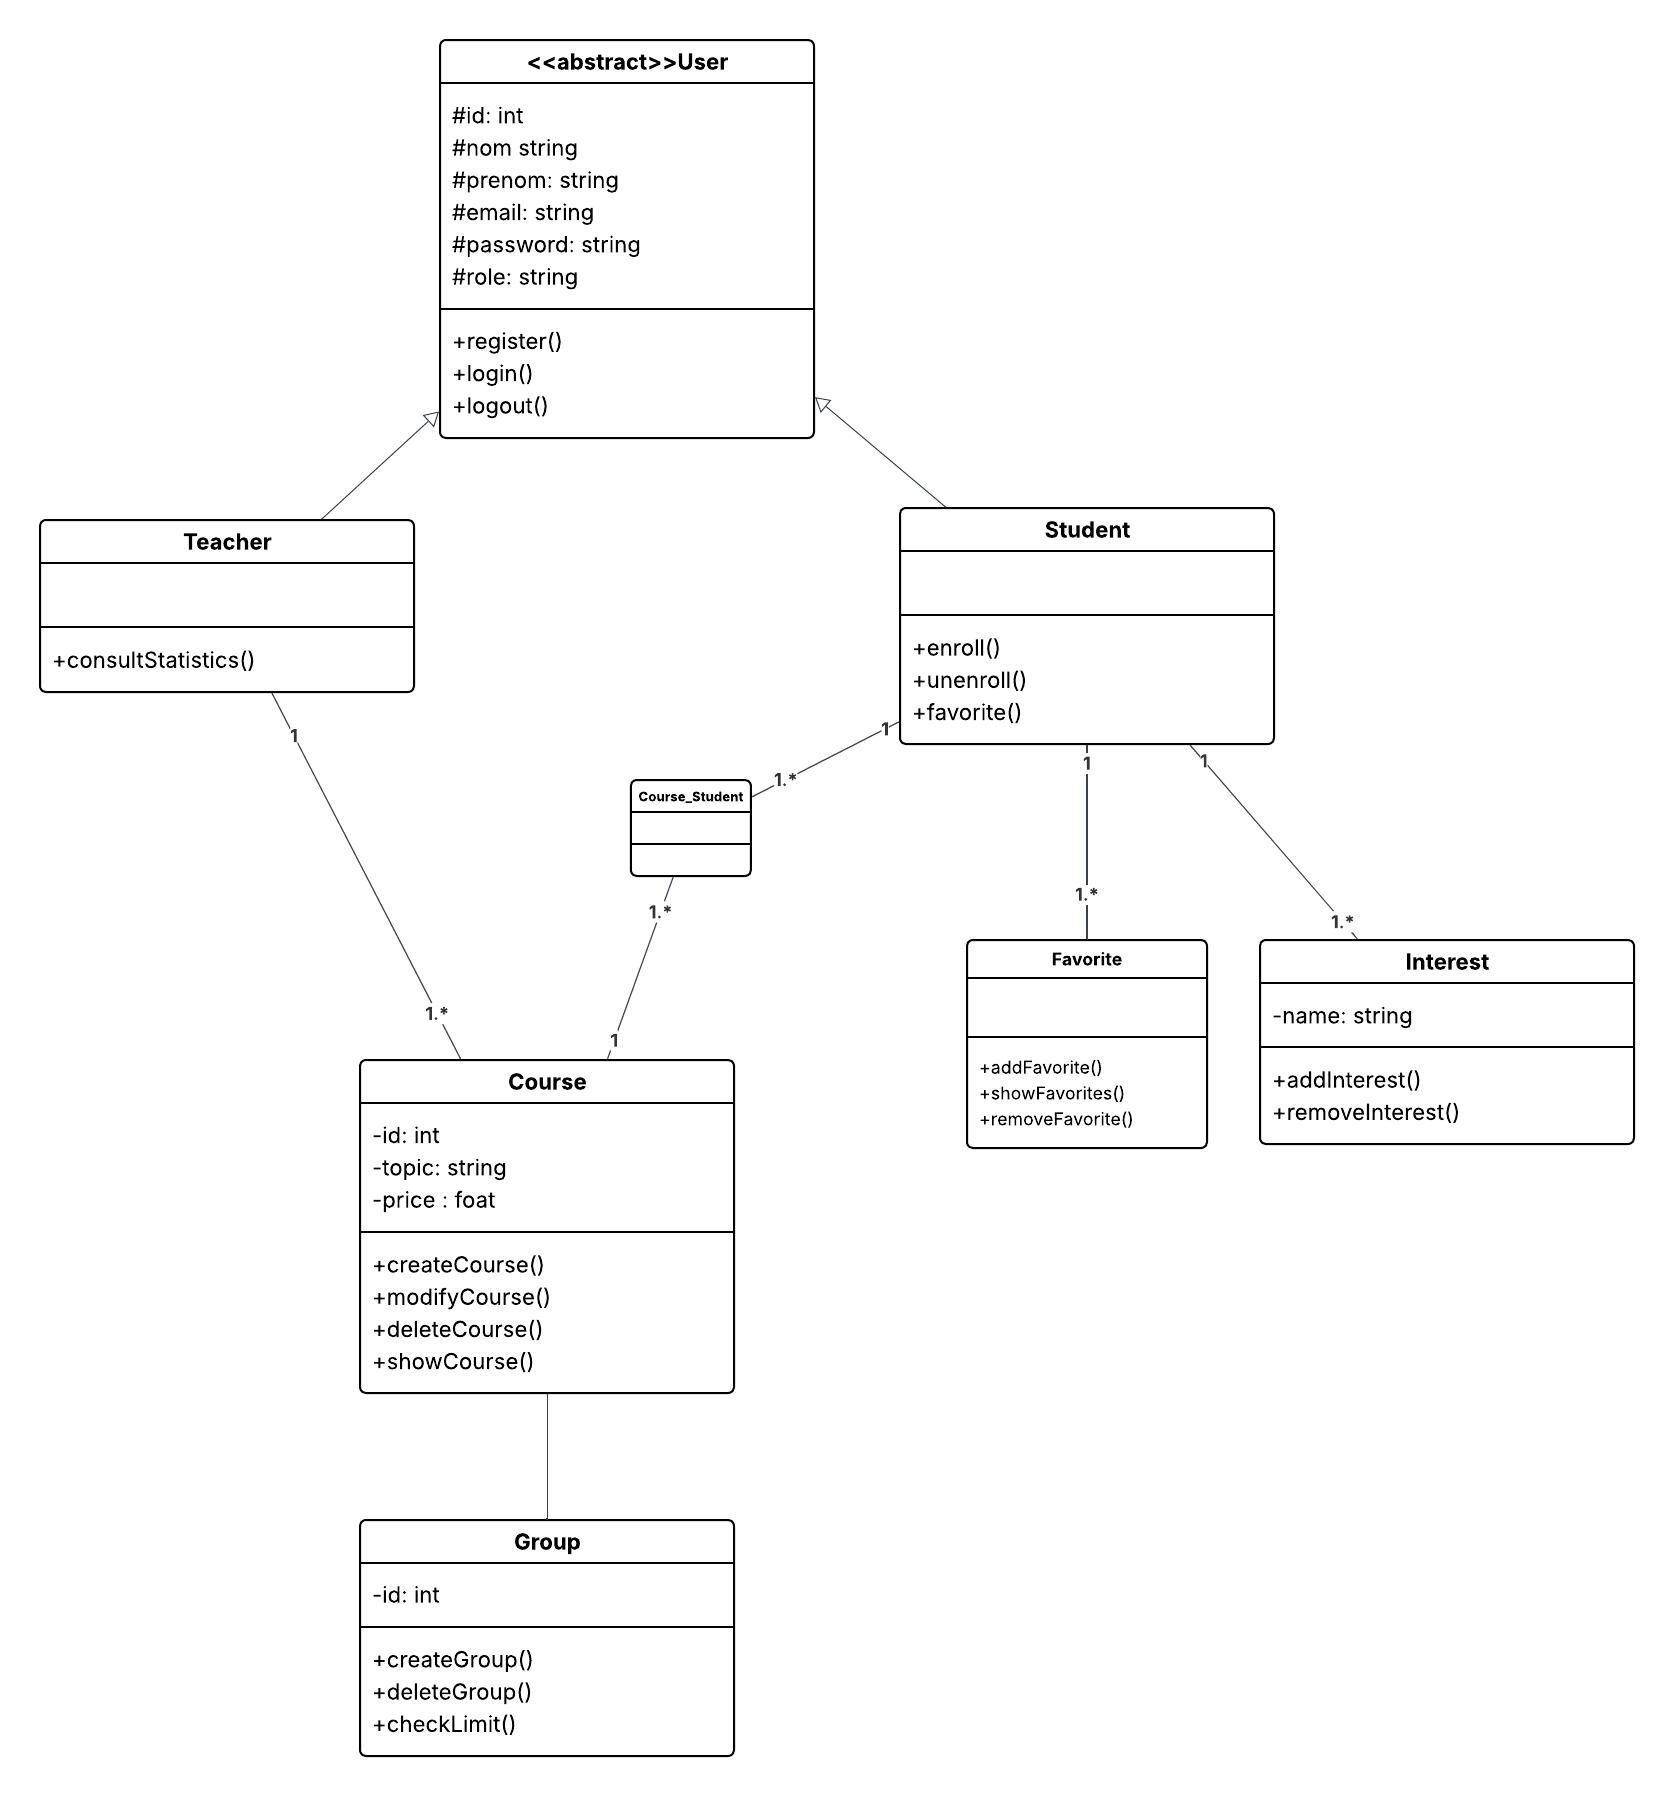
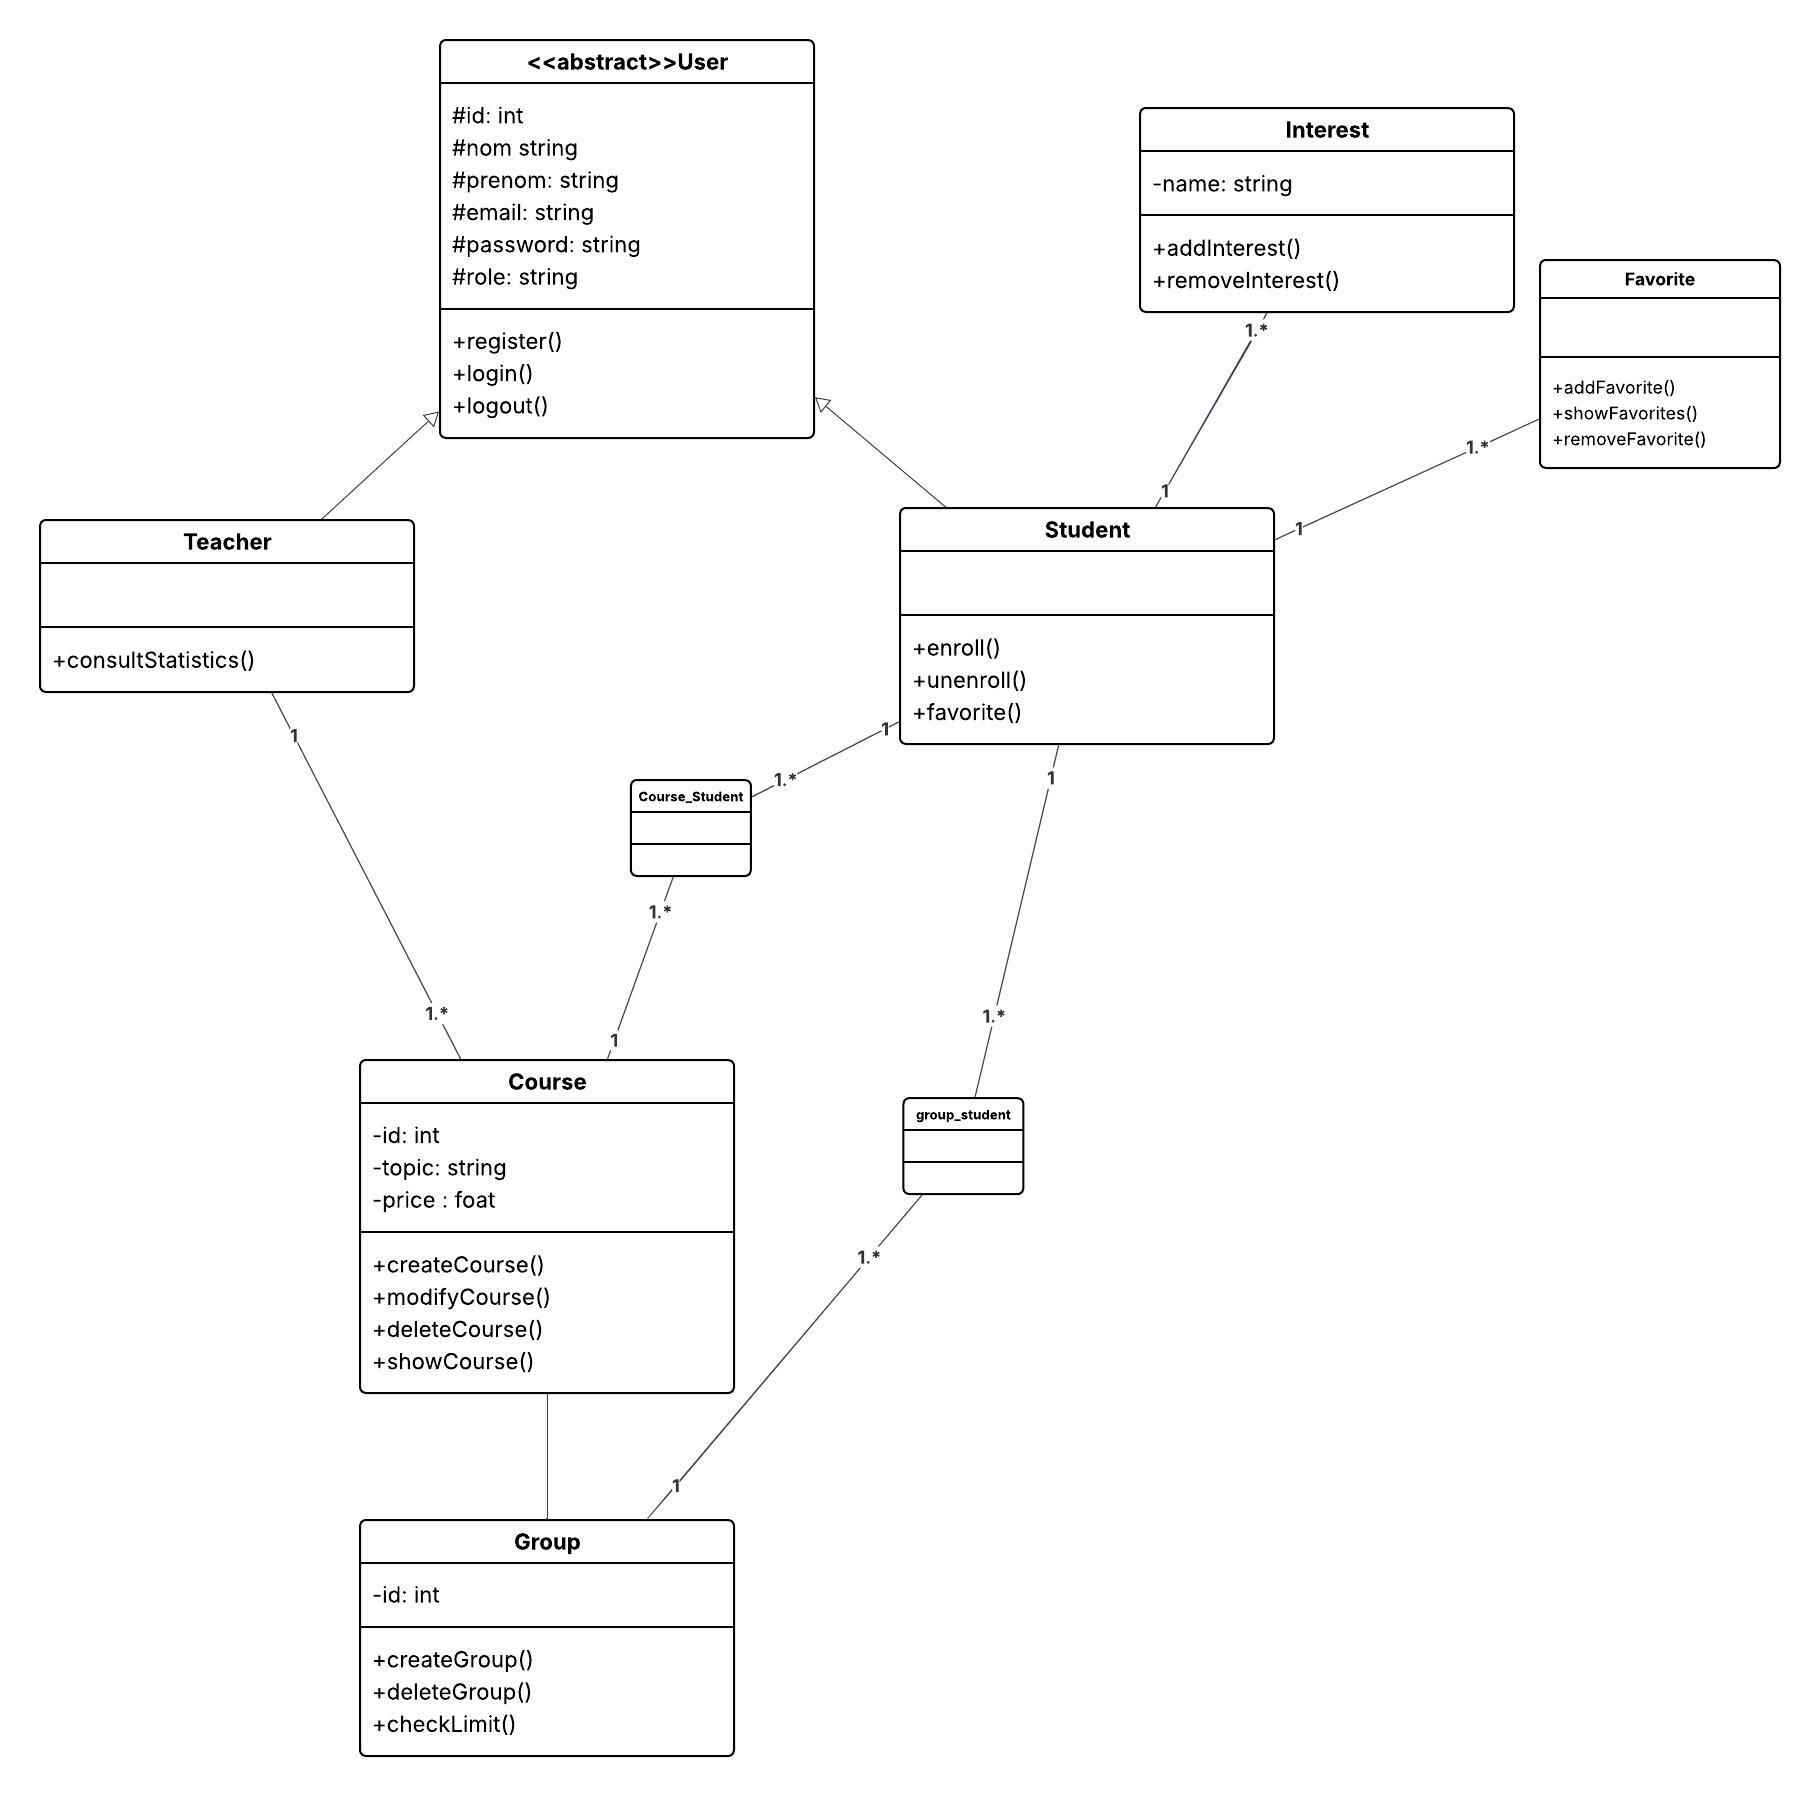
adding user_id column and fixing everything in the process

diff --git a/app/Http/Controllers/API/V1/CourseController.php b/app/Http/Controllers/API/V1/CourseController.php
@@ -21,31 +21,23 @@ class CourseController extends Controller
      */
     public function store(Request $request)
     {
-        $course = Course::findOrFail($course_id);
-        $student = auth('api')->user()->student;
+        $fields = $request->validate([
+            'topic' => 'required|string|max:255',
+            'price' => 'required|numeric|min:1',
+        ]);
 
-        if (!$student) {
-            return response()->json(['error' => 'Student profile not found'], 404);
-        }
+        $course = Course::create([
+            'topic'   => $fields['topic'],
+            'price'   => $fields['price'],
+            'user_id' => auth('api')->id(),
+        ]);
 
-        $student->courses()->syncWithoutDetaching([$course->id]);
-
-        $group = $course->groups()
-            ->withCount('students')
-            ->having('membres', '<', 25)
-            ->first();
-
-        if (!$group) {
-            $group = $course->groups()->create();
-        }
-
-        $student->groups()->syncWithoutDetaching([$group->id]);
+        $group = $course->groups()->create(['course_id' => $course->id,'membres' => 0]);
 
         return response()->json([
-            'message' => 'Enrolled successfully',
-            'course' => $course->topic,
-            'group_id' => $group->id,
-        ]);
+            'course' => $course,
+            'group'  => $group,
+        ], 201);
 
     }
 

diff --git a/routes/api.php b/routes/api.php
@@ -2,6 +2,8 @@
 
 use App\Http\Controllers\API\V1\AuthController as V1AuthController;
 use App\Http\Controllers\API\V1\CourseController as V1CourseController;
+use App\Http\Controllers\API\V1\StudentController;
+use App\Http\Middleware\IsStudent;
 use App\Http\Middleware\IsTeacher;
 use Illuminate\Http\Request;
 use Illuminate\Support\Facades\Route;
@@ -19,10 +21,15 @@ Route::prefix('v1')->group(function () {
         return auth('api')->user();
     });
 
-});
 
-Route::apiResource('courses', V1CourseController::class)->only(['index', 'show']);
+    Route::apiResource('courses', V1CourseController::class)->only(['index', 'show']);
 
-Route::middleware(['auth:api',IsTeacher::class])->group(function () {
-    Route::apiResource('courses', V1CourseController::class)->except(['index', 'show']);
+    Route::middleware(['auth:api',IsTeacher::class])->group(function () {
+        Route::apiResource('courses', V1CourseController::class)->except(['index', 'show']);
+    });
+
+    Route::middleware(['auth:api',IsStudent::class])->group(function () {
+        Route::post('/enroll/{course_id}', [StudentController::class,'enroll']);
+    });
+
 });

diff --git a/app/Http/Controllers/API/V1/StudentController.php b/app/Http/Controllers/API/V1/StudentController.php
@@ -10,9 +10,32 @@ class StudentController extends Controller
     public function enroll($course_id)
     {
         $course = Course::findOrFail($course_id);
-        $user = auth('api')->user();
-        $user->student->courses()->syncWithoutDetaching($course->id);
-        return response()->json(['message' => 'Enrolled successfully'], 200);
+        $student = auth('api')->user()->student;
+
+        if (!$student) {
+            return response()->json(['error' => 'Student profile not found'], 404);
+        }
+
+        $student->courses()->syncWithoutDetaching([$course->id]);
+
+        $group = $course->groups()
+            ->withCount('students')
+            ->having('membres', '<', 25)
+            ->first();
+
+        if (!$group) {
+            $group = $course->groups()->create();
+        }
+
+        $student->groups()->syncWithoutDetaching([$group->id]);
+
+        return response()->json([
+            'message' => 'Enrolled successfully',
+            'course' => $course->topic,
+            'group_id' => $group->id,
+        ]);
+
+
     }
     /**
      * Display a listing of the resource.

diff --git a/app/Http/Controllers/API/V1/AuthController.php b/app/Http/Controllers/API/V1/AuthController.php
@@ -2,6 +2,8 @@
 
 namespace App\Http\Controllers\API\V1;
 
+use App\Models\Student;
+use App\Models\Teacher;
 use App\Models\User;
 use Illuminate\Http\Request;
 use Illuminate\Support\Facades\Hash;
@@ -30,6 +32,16 @@ class AuthController extends Controller
             'email' => $request->email,
             'password' => Hash::make($request->password),
         ]);
+
+        if ($user->role === 'teacher') {
+            Teacher::create([
+                'user_id' => $user->id,
+            ]);
+        } elseif ($user->role === 'student') {
+            Student::create([
+                'user_id' => $user->id,
+            ]);
+        }
 
         $token = auth('api')->login($user);
 

diff --git a/database/migrations/2026_03_16_110401_create_teachers_table.php b/database/migrations/2026_03_16_110401_create_teachers_table.php
@@ -4,8 +4,7 @@ use Illuminate\Database\Migrations\Migration;
 use Illuminate\Database\Schema\Blueprint;
 use Illuminate\Support\Facades\Schema;
 
-return new class extends Migration
-{
+return new class extends Migration {
     /**
      * Run the migrations.
      */
@@ -13,6 +12,7 @@ return new class extends Migration
     {
         Schema::create('teachers', function (Blueprint $table) {
             $table->id();
+            $table->foreignId('user_id')->constrained()->cascadeOnDelete();
             $table->timestamps();
         });
     }

diff --git a/database/migrations/2026_03_16_110422_create_courses_table.php b/database/migrations/2026_03_16_110422_create_courses_table.php
@@ -12,7 +12,7 @@ return new class extends Migration {
     {
         Schema::create('courses', function (Blueprint $table) {
             $table->id();
-            $table->foreignId('user_id')->constrained()->cascadeOnDelete();
+            $table->foreignId('teacher_id')->constrained()->cascadeOnDelete();
             $table->string('topic');
             $table->float('price');
             $table->timestamps();

diff --git a/database/migrations/2026_03_16_110444_create_groups_table.php b/database/migrations/2026_03_16_110444_create_groups_table.php
@@ -12,6 +12,7 @@ return new class extends Migration {
     {
         Schema::create('groups', function (Blueprint $table) {
             $table->id();
+            $table->foreignId('teacher_id')->constrained()->cascadeOnDelete();
             $table->foreignId('course_id')->constrained()->cascadeOnDelete();
             $table->integer('membres');
             $table->timestamps();

diff --git a/database/migrations/2026_03_16_110347_create_students_table.php b/database/migrations/2026_03_16_110347_create_students_table.php
@@ -12,6 +12,7 @@ return new class extends Migration {
     {
         Schema::create('students', function (Blueprint $table) {
             $table->id();
+            $table->foreignId('user_id')->constrained()->cascadeOnDelete();
             $table->timestamps();
         });
     }

diff --git a/app/Models/Student.php b/app/Models/Student.php
@@ -6,6 +6,9 @@ use Illuminate\Database\Eloquent\Model;
 
 class Student extends Model
 {
+    protected $fillable = [
+        'user_id',
+    ];
     public function courses()
     {
         return $this->belongsToMany(Course::class);

diff --git a/app/Models/Teacher.php b/app/Models/Teacher.php
@@ -7,6 +7,9 @@ use Illuminate\Database\Eloquent\Model;
 class Teacher extends Model
 {
     //
+    protected $fillable = [
+        'user_id',
+    ];
     public function courses()
     {
         return $this->hasMany(Course::class);

diff --git a/app/Models/Group.php b/app/Models/Group.php
@@ -8,6 +8,7 @@ class Group extends Model
 {
     protected $fillable = [
         'course_id',
+        'membres',
     ];
     public function course()
     {
